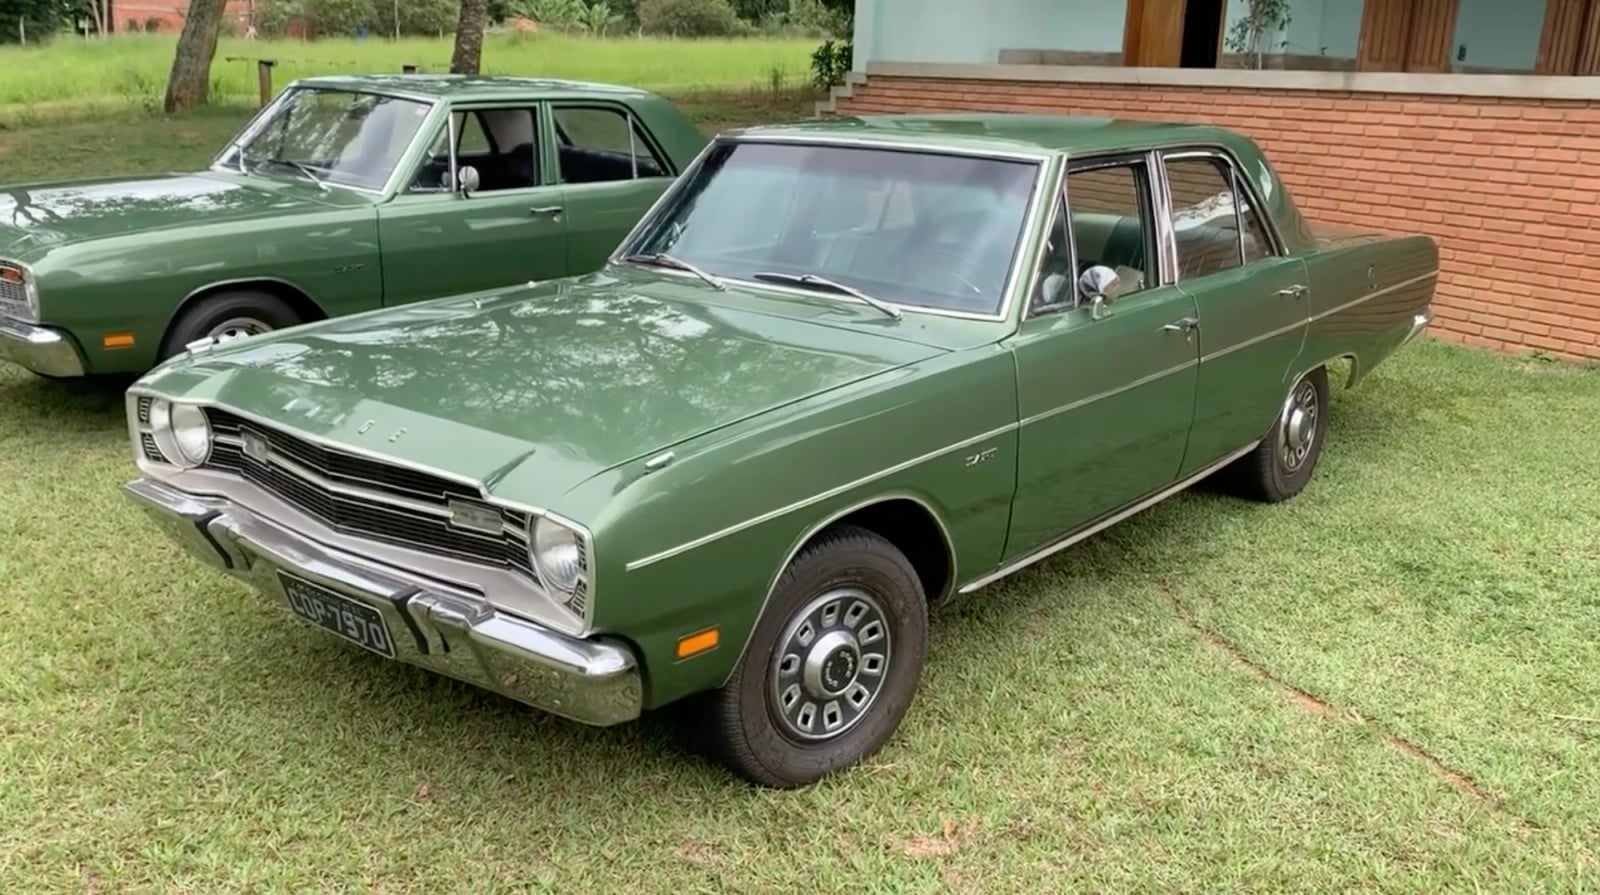
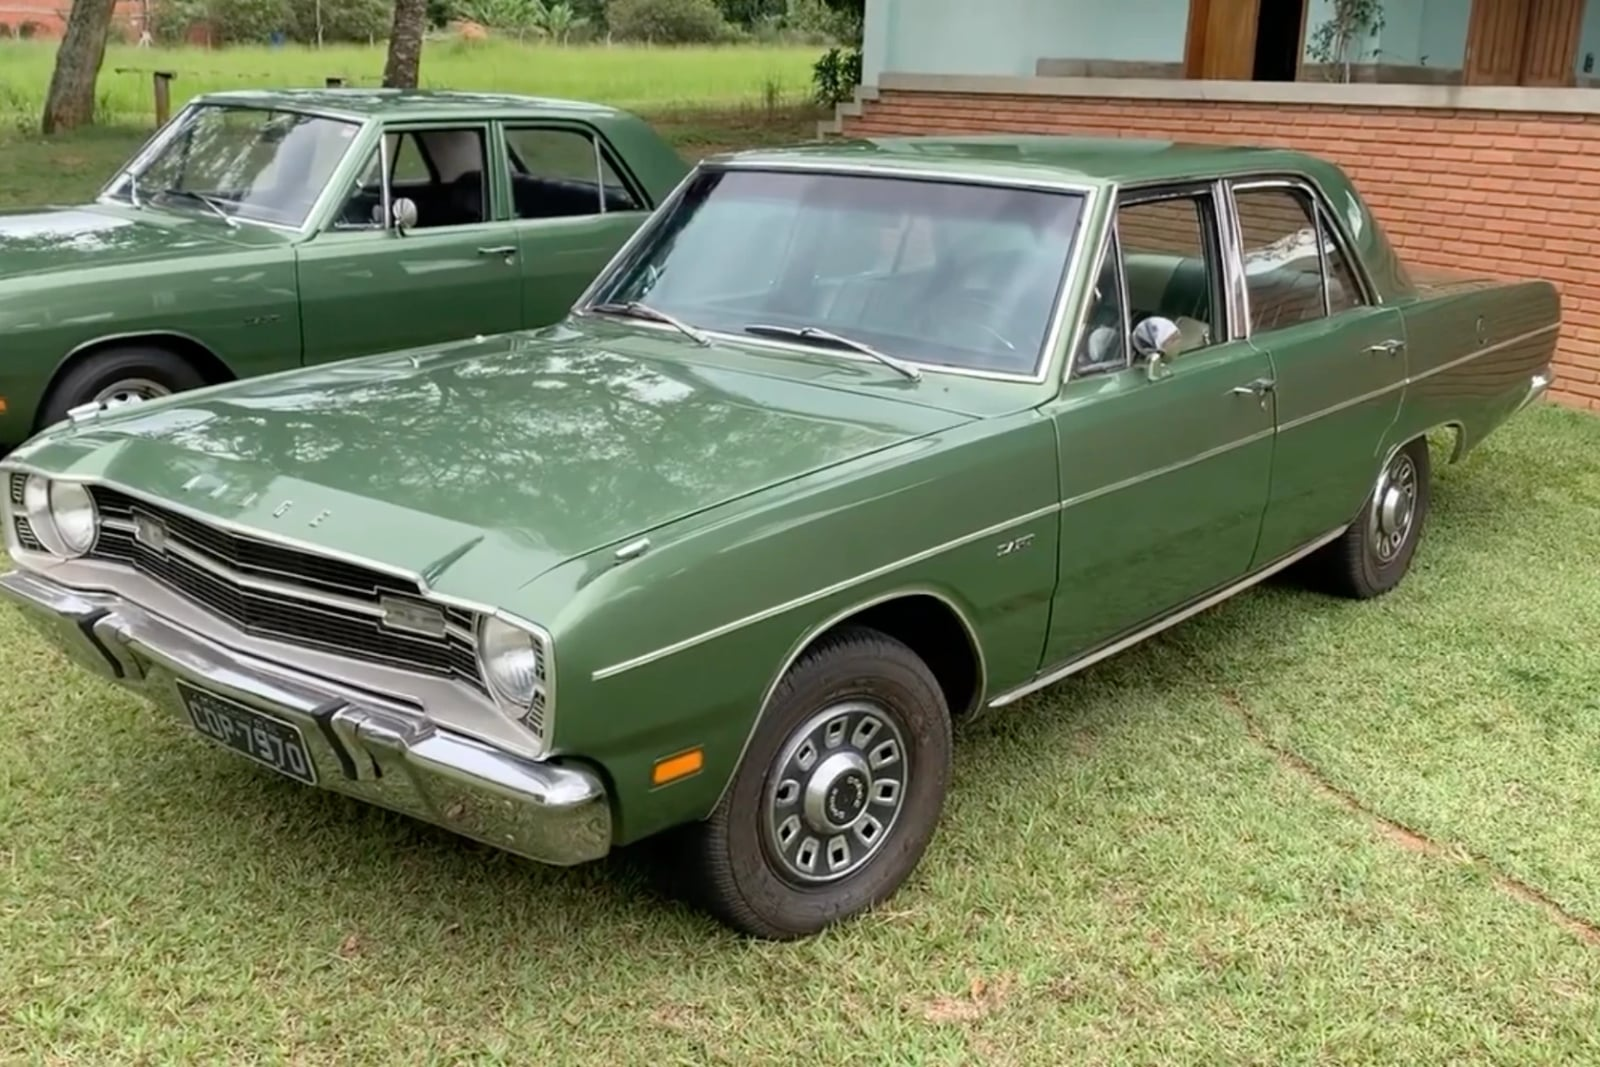
Standardize photos on fixed 3:2 aspect (1600x1067)
- Re-crop 1970 Verde Imperial photo from 16:9 to 3:2 (from original webp source)
- Update photos README: fixed 1600x1067 with cover-crop, JPEG q85
- Existing 1972 + 1975 photos already at 3:2, no change needed
- Same aspect as the site's thumbnail → lightbox no longer letterboxes

https://claude.ai/code/session_01WPyCL2vVjsSCaUXqQT7sXg

diff --git a/public/photos/README.md b/public/photos/README.md
@@ -23,19 +23,22 @@ Examples:
 - `1970-dodge-dart-seda-verde-imperial.jpg`
 - `1972-dodge-charger-rt-branco-polar.jpg`
 
-## Size
+## Size & aspect
 
 Every photo is normalized before commit:
 
-- **Max width or height: 1600 px** (whichever is larger; aspect ratio preserved)
-- **JPEG quality: 85** (mozjpeg encoder for smaller files)
-- Never enlarge — if the source is already smaller, leave it as-is
-- Target file size: keep under ~500 KB when possible
+- **Fixed aspect ratio: 3 : 2 landscape** — the same aspect as the site's thumbnail, so there is no letterbox in the lightbox.
+- **Fixed dimensions: 1600 × 1067 px** (or scaled to that with center crop when needed).
+- **JPEG quality: 85** (mozjpeg encoder for smaller files).
+- Convert `.webp`, `.png`, `.heic`, etc. before saving.
+- Target file size: under ~500 KB.
+
+`fit: 'cover'` crops from center by default. If the important subject sits off-center in the source, pick a different `position` (`'north'`, `'south'`, `'east'`, `'west'`, or a `left,top` object) so the car stays in frame.
 
 Quick command using [sharp](https://sharp.pixelplumbing.com/) (installed on demand):
 
 ```bash
-node -e "require('sharp')('SOURCE').resize({width:1600,height:1600,fit:'inside',withoutEnlargement:true}).jpeg({quality:85,mozjpeg:true}).toFile('public/photos/FILENAME.jpg')"
+node -e "require('sharp')('SOURCE').resize({width:1600,height:1067,fit:'cover',position:'center'}).jpeg({quality:85,mozjpeg:true}).toFile('public/photos/FILENAME.jpg')"
 ```
 
 ## Wiring it up
